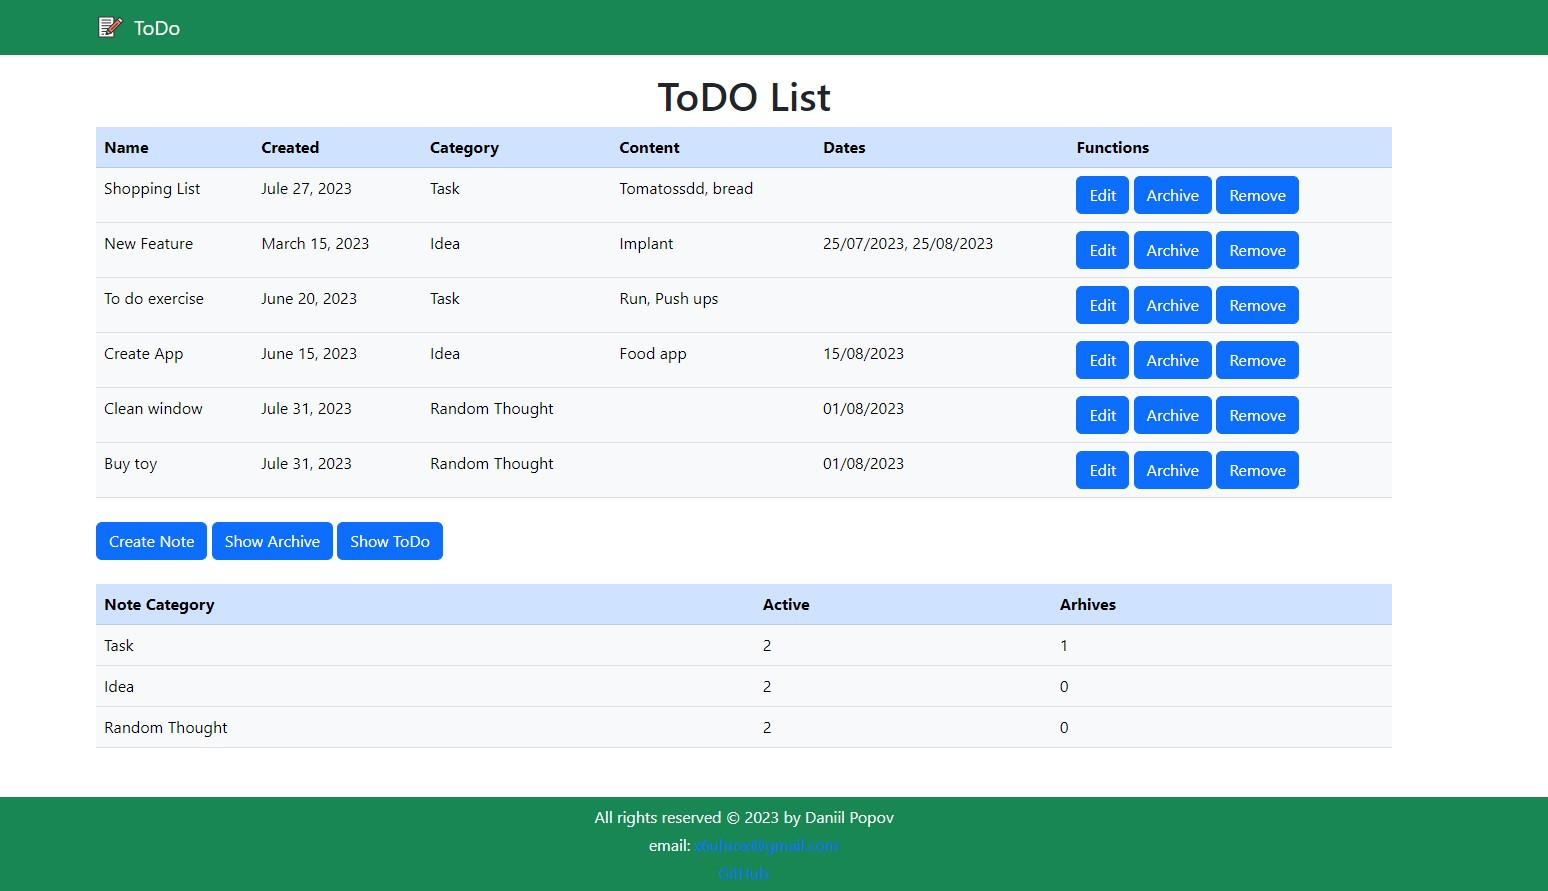
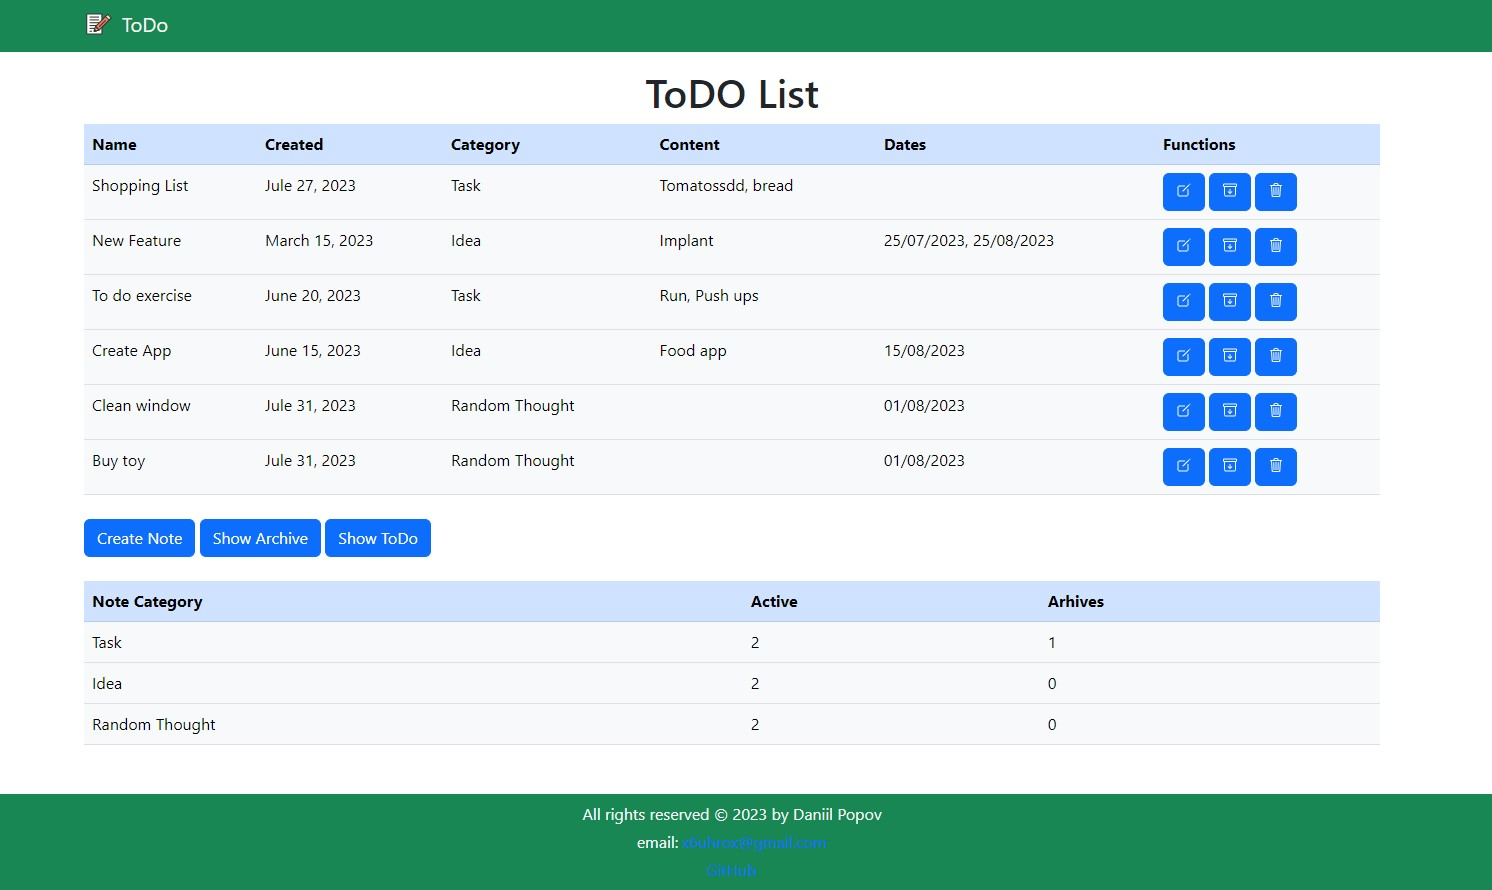
ADDED: validation form

diff --git a/index.html b/index.html
@@ -7,10 +7,10 @@
   </head>
   <body class="d-flex flex-column min-vh-100">
     <header>
-      <nav class="navbar  bg-success">
+      <nav class="navbar bg-success">
         <div class="container">
           <a class="navbar-brand d-flex align-items-center" href="/">
-            <img src="/src/img/logo.svg" alt="logo" width="30" >
+            <img src="/src/img/logo.svg" alt="logo" width="30" />
             <p class="mb-0 ms-2 text-light">ToDo</p>
           </a>
         </div>
@@ -33,12 +33,7 @@
       </table>
 
       <div>
-        <button
-          type="button"
-          class="btn btn-primary mb-4"
-          data-bs-toggle="modal"
-          data-bs-target="#addModal"
-        >
+        <button type="button" class="btn btn-primary mb-4" id="create-note">
           Create Note
         </button>
         <button type="button" class="btn btn-primary mb-4" id="show-archive">
@@ -85,11 +80,16 @@
                   <label for="add-title-note" class="form-label"
                     >Name note</label
                   >
-                  <input type="text" class="form-control" id="add-title-note" />
+                  <input
+                    type="text"
+                    class="form-control"
+                    id="add-title-note"
+                    required
+                  />
                 </div>
                 <div class="mb-3">
                   <label for="category" class="form-label">Category</label>
-                  <select class="form-select" id="add-category">
+                  <select class="form-select" id="add-category" required>
                     <option value="">Select...</option>
                     <option value="Task">Task</option>
                     <option value="Idea">Idea</option>
@@ -107,11 +107,11 @@
                 <div class="mb-3">
                   <label for="date" class="form-label">Date</label>
                   <input type="date" class="form-control" id="add-date" />
+                  <p id="error-message-add-form" style="color: red"></p>
                 </div>
                 <button
                   type="submit"
                   class="btn btn-primary"
-                  data-bs-dismiss="modal"
                   id="add note-button"
                 >
                   Add note
@@ -150,6 +150,7 @@
                     type="text"
                     class="form-control"
                     id="edit-title-note"
+                    required
                   />
                 </div>
                 <div class="mb-3">
@@ -172,11 +173,11 @@
                 <div class="mb-3">
                   <label for="edit-date" class="form-label">Date</label>
                   <input type="date" class="form-control" id="edit-date" />
+                  <p id="error-message-edit-form" style="color: red"></p>
                 </div>
                 <button
                   type="submit"
                   class="btn btn-primary"
-                  data-bs-dismiss="modal"
                   id="edit-note-button"
                 >
                   Save Changes
@@ -189,11 +190,10 @@
     </main>
     <footer class="bg-success text-center text-light">
       <div class="container py-2">
+        <p class="mb-1">All rights reserved © 2023 by Daniil Popov</p>
         <p class="mb-1">
-          All rights reserved © 2023 by Daniil Popov
-        </p>
-        <p class="mb-1">
-         email: <a href="mailto:x6uhrox@gmail.com" class="text-decoration-none">
+          email:
+          <a href="mailto:x6uhrox@gmail.com" class="text-decoration-none">
             x6uhrox@gmail.com
           </a>
         </p>
@@ -207,5 +207,13 @@
         </p>
       </div>
     </footer>
+    <script
+      type="module"
+      src="https://unpkg.com/ionicons@7.1.0/dist/ionicons/ionicons.esm.js"
+    ></script>
+    <script
+      nomodule
+      src="https://unpkg.com/ionicons@7.1.0/dist/ionicons/ionicons.js"
+    ></script>
   </body>
 </html>

diff --git a/src/todoListFunction/addToTodoList.js b/src/todoListFunction/addToTodoList.js
@@ -5,40 +5,42 @@ import { todoListData } from "../data/todoListData";
 import { getCurrentDate } from "../helpers/getCurrentDate";
 import { formatDate } from "../helpers/formatDate";
 import { getDataToInfoTable } from "./getDataToInfoTable";
+import { checkDate } from "../helpers/checkDate";
 
 export const addToTodoList = (event) => {
   event.preventDefault();
   try {
-  const title = document.querySelector("#add-title-note").value;
-  const category = document.querySelector("#add-category").value;
-  const content = document.querySelector("#add-textarea").value;
-  let date = document.querySelector("#add-date").value;
+    const title = document.querySelector("#add-title-note").value;
+    const category = document.querySelector("#add-category").value;
+    const content = document.querySelector("#add-textarea").value;
+    let date = document.querySelector("#add-date").value;
 
-  if (date) {
-    date = formatDate(date);
-  } else {
-    date = [];
+    if (date) {
+      if (!checkDate(date, "error-message-add-form")) {
+        return false;
+      }
+      date = formatDate(date);
+    } else {
+      date = [];
+    }
+
+    const data = {
+      id: nanoid(),
+      title,
+      created: getCurrentDate(),
+      category,
+      content,
+      dates: [date],
+    };
+    todoListData.push(data);
+    renderAddToTodoList(data);
+
+    getDataToInfoTable(todoListData);
+
+    Notiflix.Notify.success("Added successfully");
+    return true;
+  } catch (error) {
+    Notiflix.Notify.failure(error.message);
+    return false;
   }
-
-  const data = {
-    id: nanoid(),
-    title,
-    created: getCurrentDate(),
-    category,
-    content,
-    dates: [date],
-  };
-  todoListData.push(data);
-  renderAddToTodoList(data);
-
-  getDataToInfoTable(todoListData);
-
-  document.querySelector("#add-title-note").value = "";
-  document.querySelector("#add-category").value = "";
-  document.querySelector("#add-textarea").value = "";
-  document.querySelector("#add-date").value = "";
-  Notiflix.Notify.success("Added successfully");
-} catch (error) {
-  Notiflix.Notify.failure(error.message);
-}
 };

diff --git a/src/todoListFunction/editTodoList.js b/src/todoListFunction/editTodoList.js
@@ -2,17 +2,21 @@ import Notiflix from "notiflix";
 import { formatDate } from "../helpers/formatDate";
 import { renderEditTodoList } from "../renderFunctions/renderEditTodoList";
 import { getDataToInfoTable } from "./getDataToInfoTable";
+import { checkDate } from "../helpers/checkDate";
 
 export function editTodoList(event, data, index, id) {
   event.preventDefault();
-
-  const title = document.querySelector("#edit-title-note").value;
-  const category = document.querySelector("#edit-category").value;
-  const content = document.querySelector("#edit-textarea").value;
-  let date = document.querySelector("#edit-date").value;
-
   try {
+    const title = document.querySelector("#edit-title-note").value;
+    const category = document.querySelector("#edit-category").value;
+    const content = document.querySelector("#edit-textarea").value;
+    let date = document.querySelector("#edit-date").value;
+
     const lastDate = data[index].dates[data[index].dates.length - 1];
+
+    if (date && !checkDate(date, "error-message-edit-form")) {
+      return false;
+    }
 
     if (date && formatDate(date) !== lastDate) {
       date = formatDate(date);
@@ -44,7 +48,9 @@ export function editTodoList(event, data, index, id) {
     renderEditTodoList(data[index], id);
     getDataToInfoTable(data);
     Notiflix.Notify.success("Edited successfully");
+    return true;
   } catch (error) {
     Notiflix.Notify.failure(error.message);
+    return false;
   }
 }

diff --git a/src/index.js b/src/index.js
@@ -1,7 +1,7 @@
 import "bootstrap/dist/css/bootstrap.min.css";
 import "bootstrap/dist/js/bootstrap.bundle.min.js";
 import { todoListData } from "./data/todoListData";
-import { addToTodoList } from "./todoListFunction/addToTodoList";
+import { openAddModal } from "./helpers/openAddModal";
 import { removeFromList } from "./todoListFunction/removeFromList";
 import { openEditModalWithData } from "./helpers/openEditModalWithData";
 import { renderTodoList } from "./renderFunctions/renderTodoList";
@@ -9,7 +9,7 @@ import { getDataToInfoTable } from "./todoListFunction/getDataToInfoTable";
 import { toggleToArchive } from "./todoListFunction/toggleToArchive";
 
 const tableBody = document.querySelector(".table-body");
-const addNoteForm = document.querySelector("#add-note-form");
+const createNote = document.querySelector("#create-note");
 const showArchive = document.querySelector("#show-archive");
 const showTodo = document.querySelector("#show-todo-list");
 
@@ -28,7 +28,7 @@ const onListenTableRow = (event) => {
 };
 
 tableBody.addEventListener("click", onListenTableRow);
-addNoteForm.addEventListener("submit", addToTodoList);
+createNote.addEventListener("click", openAddModal);
 showArchive.addEventListener("click", () =>
   renderTodoList(todoListData, tableBody, true)
 );

diff --git a/src/helpers/openAddModal.js b/src/helpers/openAddModal.js
@@ -1,0 +1,24 @@
+import { Modal } from "bootstrap";
+import { addToTodoList } from "../todoListFunction/addToTodoList";
+
+export const openAddModal = () => {
+  const addModal = new Modal(document.querySelector("#addModal"));
+
+  document.querySelector("#add-title-note").value = "";
+  document.querySelector("#add-category").value = "";
+  document.querySelector("#add-textarea").value = "";
+  document.querySelector("#add-date").value = "";
+
+   function handleSubmit(event) {
+    
+    if (!addToTodoList(event)) {
+      return;
+    }
+    addModal.hide();
+    addNoteForm.removeEventListener("submit", handleSubmit);
+  }
+
+  const addNoteForm = document.querySelector("#add-note-form");
+  addNoteForm.addEventListener("submit", (event) => handleSubmit(event));
+  addModal.show();
+};

diff --git a/src/markup/todoTableRowMarkup.js b/src/markup/todoTableRowMarkup.js
@@ -11,13 +11,14 @@ export const todoTableRowMarkup = (item) =>
     <div>  
         <button type="button" class="btn btn-primary" name='edit' data-id="${
           item.id
-        }">Edit</button>
+        }"><ion-icon name="create-outline" style="pointer-events: none"></ion-icon></button>
         <button type="button" class="btn btn-primary" name='archive'data-id="${
           item.id
-        }">Archive</button>
+        }"><ion-icon name="archive-outline" style="pointer-events: none"></ion-icon></button>
         <button type="button" class="btn btn-primary" name='remove' data-id="${
           item.id
-        }">Remove</button>
+        }"><ion-icon name="trash-outline" style="pointer-events: none"></ion-icon>
+        </button>
     <div>
 </td>
 </tr>`;

diff --git a/src/helpers/checkDate.js b/src/helpers/checkDate.js
@@ -1,0 +1,18 @@
+export const checkDate = (date, idEl) => {
+    try {
+      const inputDate = new Date(date);
+      const currentDate = new Date();
+      if (inputDate < currentDate) {
+        const errorMessage = "The entered date is less than the current date.";
+        document.querySelector(`#${idEl}`).textContent = errorMessage;
+        return false;
+      } else {
+        document.querySelector(`#${idEl}`).textContent = "";
+        return true;
+      }
+    } catch (error) {
+      const errorMessage = "Incorrect date format";
+      document.querySelector(`#${idEl}`).textContent = errorMessage;
+      return false;
+    }
+  }

diff --git a/src/helpers/openEditModalWithData.js b/src/helpers/openEditModalWithData.js
@@ -23,8 +23,11 @@ export const openEditModalWithData = (data, { id }) => {
   }
 
   function handleSubmit(event) {
-    editTodoList(event, data, index, id);
+    if (!editTodoList(event, data, index, id)) {
+      return; 
+    }
     editNoteForm.removeEventListener("submit", handleSubmit);
+    editModal.hide();
   }
 
   const editNoteForm = document.querySelector("#edit-note-form");
